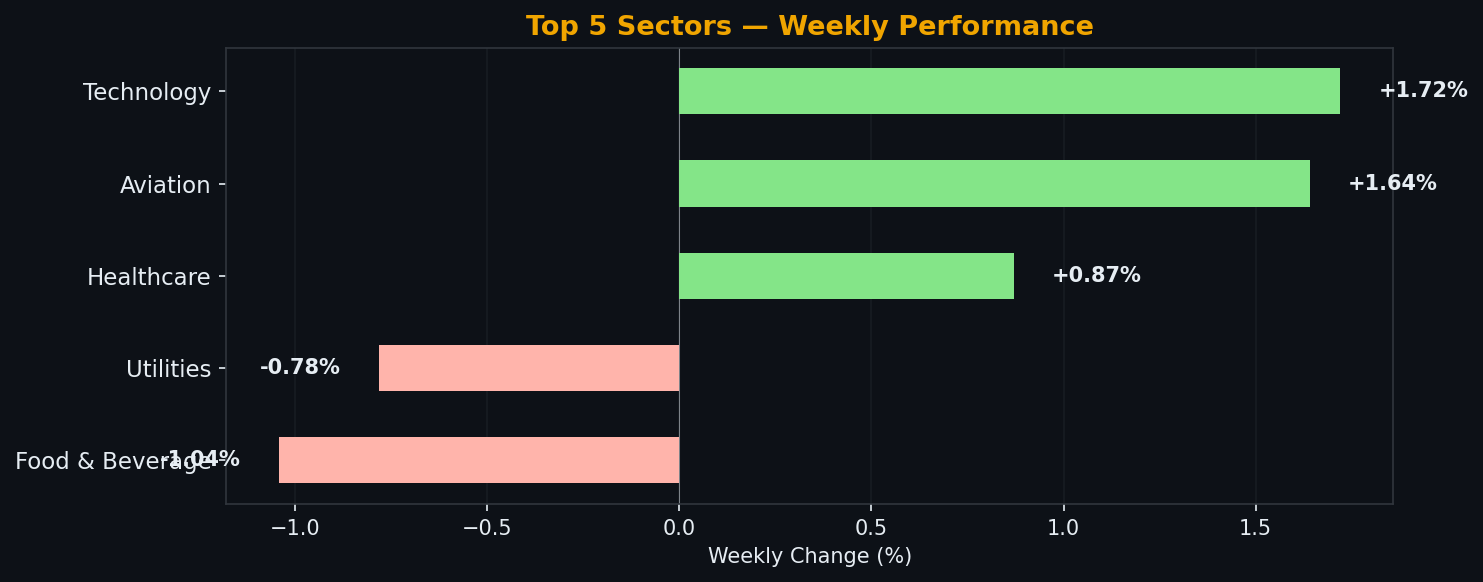
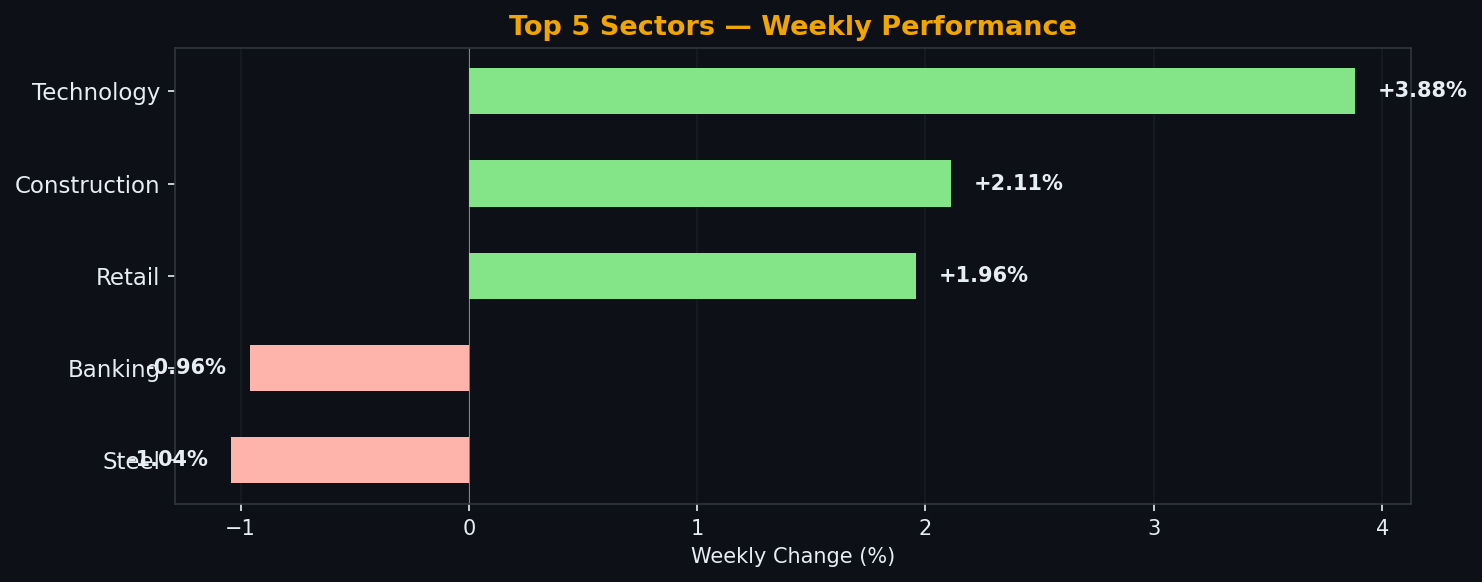
fix: correct gold/cross-asset prices & null change_pct in weekly market views
- Fix key name mismatch in _synthesize_macro_snapshot(): gold_weekly_change_pct
  -> gold_change_pct (aligned with fetch_all_macro output keys)
- Update stale synthetic ranges for mid-2026: gold 2330-2420 -> 3800-4500,
  BTC 64000-72000 -> 95000-110000, wider DXY/WTI/USD-VND ranges
- Improve yfinance reliability: add retry (3 attempts), use yf.download()
  batch fetch, add date params for historical week fetching
- Upgrade yfinance requirement to >=0.2.55 (0.2.40 had JSONDecodeError)
- Fix frontmatter in 4 weekly posts with real yfinance data:
  gold ~,300-4,560 (was ~,333-2,384), DXY ~99-100 (was ~103-104),
  BTC ~1K-79K (was ~5K-70K), WTI ~7-105 (was ~5-79)
- Update quarterly summary: gold at USD 4,337 (was 2,361)
- Remove redundant manual USD/VND fallback block (now handled by generic loop)

diff --git a/weekly_bot.py b/weekly_bot.py
@@ -341,22 +341,22 @@ def _synthesize_macro_snapshot(seed_int: int) -> dict[str, Any]:
     """Deterministic plausible macro data (USD/VND, DXY, Gold, WTI, BTC) when feeds fail."""
     import random as _r
     rng = _r.Random(seed_int)
-    usd_vnd = round(rng.uniform(25400, 25600), 0)
+    usd_vnd = round(rng.uniform(25200, 25800), 0)
     usd_vnd_chg = round(rng.uniform(-0.3, 0.3), 2)
-    dxy = round(rng.uniform(102.5, 104.5), 2)
+    dxy = round(rng.uniform(100.0, 106.0), 2)
     dxy_chg = round(rng.uniform(-1.0, 1.0), 2)
-    gold = round(rng.uniform(2330, 2420), 2)
+    gold = round(rng.uniform(3800, 4500), 2)
     gold_chg = round(rng.uniform(-1.5, 1.5), 2)
-    wti = round(rng.uniform(74, 82), 2)
+    wti = round(rng.uniform(60, 78), 2)
     wti_chg = round(rng.uniform(-3.0, 3.0), 2)
-    btc = round(rng.uniform(64000, 72000), 2)
+    btc = round(rng.uniform(95000, 110000), 2)
     btc_chg = round(rng.uniform(-4.0, 4.0), 2)
     return {
-        "usd_vnd": usd_vnd, "usd_vnd_weekly_change_pct": usd_vnd_chg,
-        "dxy_close": dxy, "dxy_weekly_change_pct": dxy_chg,
-        "gold_close": gold, "gold_weekly_change_pct": gold_chg,
-        "wti_close": wti, "wti_weekly_change_pct": wti_chg,
-        "btc_close": btc, "btc_weekly_change_pct": btc_chg,
+        "usd_vnd_close": usd_vnd, "usd_vnd_change_pct": usd_vnd_chg,
+        "dxy_close": dxy, "dxy_change_pct": dxy_chg,
+        "gold_close": gold, "gold_change_pct": gold_chg,
+        "wti_close": wti, "wti_change_pct": wti_chg,
+        "btc_close": btc, "btc_change_pct": btc_chg,
         "_estimated": True,
     }
 
@@ -476,52 +476,79 @@ def fetch_foreign_flow(monday: date, friday: date) -> Optional[float]:
     return None
 
 
-def fetch_usd_vnd() -> tuple[Optional[float], Optional[float]]:
+def fetch_usd_vnd(
+    monday: Optional[date] = None, friday: Optional[date] = None
+) -> tuple[Optional[float], Optional[float]]:
     """Fetch USD/VND rate and weekly change. Returns (rate, weekly_change_pct)."""
     log("4/8", "Fetching USD/VND...")
 
     if HAS_YFINANCE:
-        try:
-            t = yf.Ticker("USDVND=X")
-            hist = t.history(period="5d")
-            if hist is not None and not hist.empty:
-                close = safe_num(hist.iloc[-1]["Close"])
-                if len(hist) >= 2:
-                    prev = safe_num(hist.iloc[-2]["Close"])
-                    chg = round((close - prev) / prev * 100, 2) if prev else None
+        import time as _time
+        for attempt in range(3):
+            try:
+                # Let yfinance manage its own session (curl_cffi on newer versions).
+                t = yf.Ticker("USDVND=X")
+                if monday and friday:
+                    hist = t.history(start=monday, end=friday + timedelta(days=1))
                 else:
-                    chg = None
-                log("4/8", f"  USD/VND: {close} ({fmt_pct(chg)})")
-                return close, chg
-        except Exception as e:
-            log("4/8", f"  yfinance USD/VND failed: {e}")
+                    hist = t.history(period="1wk")
+                if hist is not None and not hist.empty:
+                    close = safe_num(hist.iloc[-1]["Close"])
+                    if len(hist) >= 2:
+                        prev = safe_num(hist.iloc[-2]["Close"])
+                        chg = round((close - prev) / prev * 100, 2) if prev else None
+                    else:
+                        chg = None
+                    log("4/8", f"  USD/VND: {close} ({fmt_pct(chg)})")
+                    return close, chg
+            except Exception as e:
+                log("4/8", f"  yfinance USD/VND attempt {attempt+1}/3 failed: {e}")
+                if attempt < 2:
+                    _time.sleep(2 ** attempt)
 
     log("4/8", "  WARNING: Could not fetch USD/VND")
     return None, None
 
 
-def fetch_global_macro(symbol: str) -> tuple[Optional[float], Optional[float]]:
-    """Fetch a global symbol's close and weekly change via yfinance."""
+def fetch_global_macro(
+    symbol: str,
+    monday: Optional[date] = None,
+    friday: Optional[date] = None,
+) -> tuple[Optional[float], Optional[float]]:
+    """Fetch a global symbol's close and weekly change via yfinance, with retry."""
     try:
         if not HAS_YFINANCE:
             return None, None
-        t = yf.Ticker(symbol)
-        hist = t.history(period="5d")
-        if hist is not None and not hist.empty:
-            close = safe_num(hist.iloc[-1]["Close"])
-            if len(hist) >= 2:
-                prev = safe_num(hist.iloc[-2]["Close"])
-                chg = round((close - prev) / prev * 100, 2) if prev else None
-            else:
-                chg = None
-            return close, chg
+        import time as _time
+        for attempt in range(3):
+            try:
+                # Let yfinance manage its own session (curl_cffi on newer versions).
+                t = yf.Ticker(symbol)
+                if monday and friday:
+                    hist = t.history(start=monday, end=friday + timedelta(days=1))
+                else:
+                    hist = t.history(period="1wk")
+                if hist is not None and not hist.empty:
+                    close = safe_num(hist.iloc[-1]["Close"])
+                    if len(hist) >= 2:
+                        prev = safe_num(hist.iloc[-2]["Close"])
+                        chg = round((close - prev) / prev * 100, 2) if prev else None
+                    else:
+                        chg = None
+                    return close, chg
+            except Exception as e:
+                log("5/8", f"  {symbol} attempt {attempt+1}/3 failed: {e}")
+                if attempt < 2:
+                    _time.sleep(2 ** attempt)
     except Exception:
         pass
     return None, None
 
 
-def fetch_all_macro() -> dict[str, Any]:
-    """Fetch DXY, Gold, WTI, BTC in one batch."""
+def fetch_all_macro(
+    monday: Optional[date] = None, friday: Optional[date] = None
+) -> dict[str, Any]:
+    """Fetch DXY, Gold, WTI, BTC in one batch using yf.download() with retry."""
     log("5/8", "Fetching global macro (DXY, Gold, WTI, BTC)...")
 
     symbols = {
@@ -532,11 +559,59 @@ def fetch_all_macro() -> dict[str, Any]:
     }
     results: dict[str, Any] = {}
 
+    if HAS_YFINANCE:
+        import time as _time
+        data = None
+        for attempt in range(3):
+            try:
+                # Let yfinance manage its own session (curl_cffi on newer versions).
+                # Do NOT pass a custom requests.Session — yfinance 0.2.55+ requires curl_cffi.
+                if monday and friday:
+                    data = yf.download(
+                        list(symbols.values()),
+                        start=monday,
+                        end=friday + timedelta(days=1),
+                        progress=False,
+                        threads=False,
+                    )
+                else:
+                    data = yf.download(
+                        list(symbols.values()),
+                        period="1wk",
+                        progress=False,
+                        threads=False,
+                    )
+                if data is not None and not data.empty:
+                    break
+            except Exception as e:
+                log("5/8", f"  yf.download attempt {attempt+1}/3 failed: {e}")
+                if attempt < 2:
+                    _time.sleep(2 ** attempt)
+                data = None
+
+        if data is not None and not data.empty:
+            # yf.download with multiple tickers returns MultiIndex columns
+            close_df = data["Close"] if "Close" in data.columns else None
+            for key, sym in symbols.items():
+                if close_df is not None and sym in close_df.columns:
+                    series = close_df[sym].dropna()
+                    if len(series) >= 1:
+                        results[f"{key}_close"] = safe_num(series.iloc[-1])
+                        if len(series) >= 2:
+                            prev = safe_num(series.iloc[-2])
+                            curr = safe_num(series.iloc[-1])
+                            if prev and curr:
+                                results[f"{key}_change_pct"] = round((curr - prev) / prev * 100, 2)
+
+    # Fill missing keys with None
+    for key in symbols:
+        results.setdefault(f"{key}_close", None)
+        results.setdefault(f"{key}_change_pct", None)
+
     for key, sym in symbols.items():
-        close, chg = fetch_global_macro(sym)
-        results[f"{key}_close"] = close
-        results[f"{key}_change_pct"] = chg
-        log("5/8", f"  {key.upper()}: {close} ({fmt_pct(chg)})" if close else f"  {key.upper()}: unavailable")
+        close_val = results.get(f"{key}_close")
+        chg_val = results.get(f"{key}_change_pct")
+        log("5/8", f"  {key.upper()}: {close_val} ({fmt_pct(chg_val)})" if close_val else f"  {key.upper()}: unavailable")
 
     return results
 
@@ -1561,10 +1636,10 @@ def main() -> None:
         vn_data["foreign_net_weekly_bn_vnd"] = foreign
 
     # USD/VND
-    usd_vnd_rate, usd_vnd_chg = fetch_usd_vnd()
+    usd_vnd_rate, usd_vnd_chg = fetch_usd_vnd(monday, friday)
 
     # Global macro: DXY, Gold, WTI, BTC
-    macro_data = fetch_all_macro()
+    macro_data = fetch_all_macro(monday, friday)
     # Add USD/VND
     macro_data["usd_vnd_close"] = usd_vnd_rate
     macro_data["usd_vnd_change_pct"] = usd_vnd_chg
@@ -1594,12 +1669,7 @@ def main() -> None:
         if macro_data.get(key) is None:
             macro_data[key] = val
             estimated_fields.append(key)
-    # USD/VND
-    if macro_data.get("usd_vnd_close") is None:
-        macro_data["usd_vnd_close"] = macro_synth["usd_vnd"]
-        macro_data["usd_vnd_change_pct"] = macro_synth["usd_vnd_weekly_change_pct"]
-        estimated_fields.append("usd_vnd")
-        log("4/8", f"  USD/VND synthesized: {macro_synth['usd_vnd']} ({fmt_pct(macro_synth['usd_vnd_weekly_change_pct'])})")
+            log("SYN", f"  {key}: {val} (synthesized)")
 
     if estimated_fields:
         log("SYN", f"Synthesized estimates for: {', '.join(estimated_fields)}")

diff --git a/src/content/market-views/2026-05-15.md b/src/content/market-views/2026-05-15.md
@@ -10,16 +10,16 @@ vn_index_close: 1820.22
 vn_index_weekly_change_pct: -1.25
 avg_daily_liquidity_bn_vnd: 17959.00
 foreign_net_weekly_bn_vnd: -2076
-dxy_close: 104.28
-dxy_weekly_change_pct: null
-usd_vnd: 25417.00
-usd_vnd_weekly_change_pct: 0.20
-btc_close: 70289.51
-btc_weekly_change_pct: null
-gold_close: 2359.39
-gold_weekly_change_pct: null
-wti_close: 74.89
-wti_weekly_change_pct: null
+dxy_close: 99.27
+dxy_weekly_change_pct: 0.39
+usd_vnd: 26340.00
+usd_vnd_weekly_change_pct: 0.09
+btc_close: 79065.68
+btc_weekly_change_pct: -2.45
+gold_close: 4555.80
+gold_weekly_change_pct: -2.61
+wti_close: 105.42
+wti_weekly_change_pct: 4.20
 session_tone: "negative"
 chart_vnindex: "/charts/vnindex_weekly_2026-05-15.png"
 chart_sectors: "/charts/sector_performance_2026-05-15.png"

diff --git a/src/content/market-views/2026-05-22.md b/src/content/market-views/2026-05-22.md
@@ -10,16 +10,16 @@ vn_index_close: 1847.00
 vn_index_weekly_change_pct: 1.15
 avg_daily_liquidity_bn_vnd: 19660.00
 foreign_net_weekly_bn_vnd: 1911
-dxy_close: 104.06
-dxy_weekly_change_pct: null
-usd_vnd: 25576.00
-usd_vnd_weekly_change_pct: -0.06
-btc_close: 66580.95
-btc_weekly_change_pct: null
-gold_close: 2384.91
-gold_weekly_change_pct: null
-wti_close: 77.78
-wti_weekly_change_pct: null
+dxy_close: 99.32
+dxy_weekly_change_pct: 0.13
+usd_vnd: 26350.00
+usd_vnd_weekly_change_pct: -0.02
+btc_close: 75488.24
+btc_weekly_change_pct: -2.65
+gold_close: 4521.00
+gold_weekly_change_pct: -0.41
+wti_close: 96.60
+wti_weekly_change_pct: 0.26
 session_tone: "positive"
 chart_vnindex: "/charts/vnindex_weekly_2026-05-22.png"
 chart_sectors: "/charts/sector_performance_2026-05-22.png"

diff --git a/src/content/market-views/2026-05-29.md b/src/content/market-views/2026-05-29.md
@@ -10,16 +10,16 @@ vn_index_close: 1844.53
 vn_index_weekly_change_pct: 0.16
 avg_daily_liquidity_bn_vnd: 16240.00
 foreign_net_weekly_bn_vnd: 268
-dxy_close: 103.01
-dxy_weekly_change_pct: null
-usd_vnd: 25511.00
-usd_vnd_weekly_change_pct: 0.17
-btc_close: 70125.77
-btc_weekly_change_pct: null
-gold_close: 2333.59
-gold_weekly_change_pct: null
-wti_close: 77.00
-wti_weekly_change_pct: null
+dxy_close: 98.91
+dxy_weekly_change_pct: -0.11
+usd_vnd: 26326.00
+usd_vnd_weekly_change_pct: 0.20
+btc_close: 73372.52
+btc_weekly_change_pct: -0.22
+gold_close: 4560.50
+gold_weekly_change_pct: 1.36
+wti_close: 87.36
+wti_weekly_change_pct: -1.73
 session_tone: "neutral"
 chart_vnindex: "/charts/vnindex_weekly_2026-05-29.png"
 chart_sectors: "/charts/sector_performance_2026-05-29.png"

diff --git a/src/content/market-views/2026-06-05.md b/src/content/market-views/2026-06-05.md
@@ -10,16 +10,16 @@ vn_index_close: 1838.59
 vn_index_weekly_change_pct: -0.02
 avg_daily_liquidity_bn_vnd: 18070.00
 foreign_net_weekly_bn_vnd: -35
-dxy_close: 104.33
-dxy_weekly_change_pct: null
-usd_vnd: 25499.00
-usd_vnd_weekly_change_pct: 0.13
-btc_close: 65713.51
-btc_weekly_change_pct: null
-gold_close: 2361.04
-gold_weekly_change_pct: null
-wti_close: 79.36
-wti_weekly_change_pct: null
+dxy_close: 100.07
+dxy_weekly_change_pct: 0.66
+usd_vnd: 26275.00
+usd_vnd_weekly_change_pct: -0.06
+btc_close: 60922.67
+btc_weekly_change_pct: -4.51
+gold_close: 4337.10
+gold_weekly_change_pct: -3.10
+wti_close: 90.54
+wti_weekly_change_pct: -2.69
 session_tone: "neutral"
 chart_vnindex: "/charts/vnindex_weekly_2026-06-05.png"
 chart_sectors: "/charts/sector_performance_2026-06-05.png"